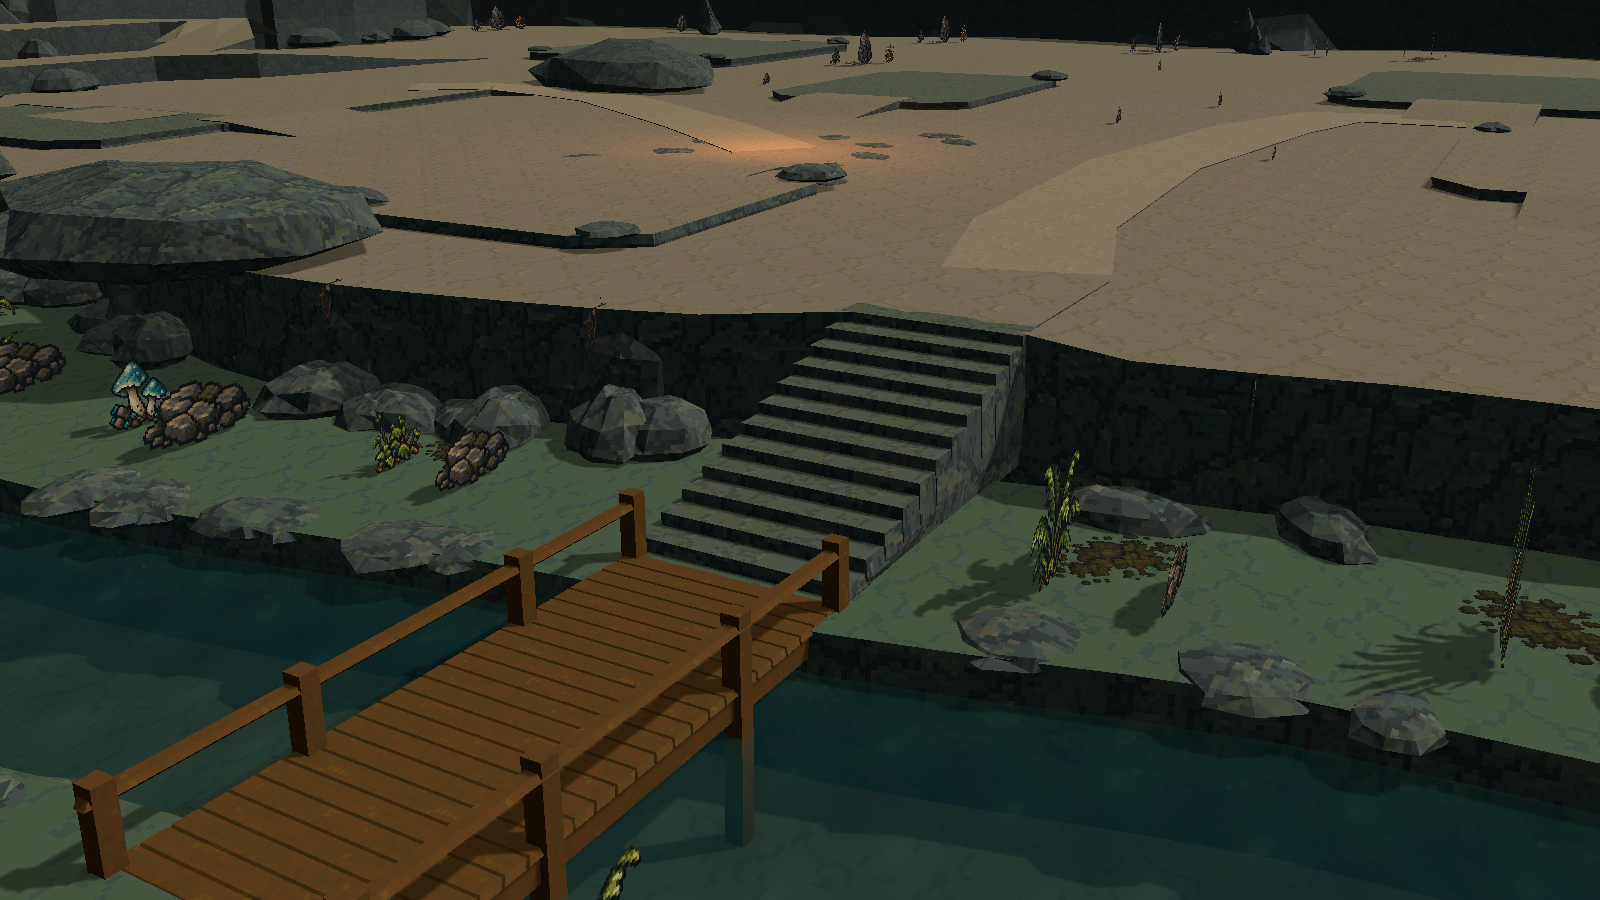
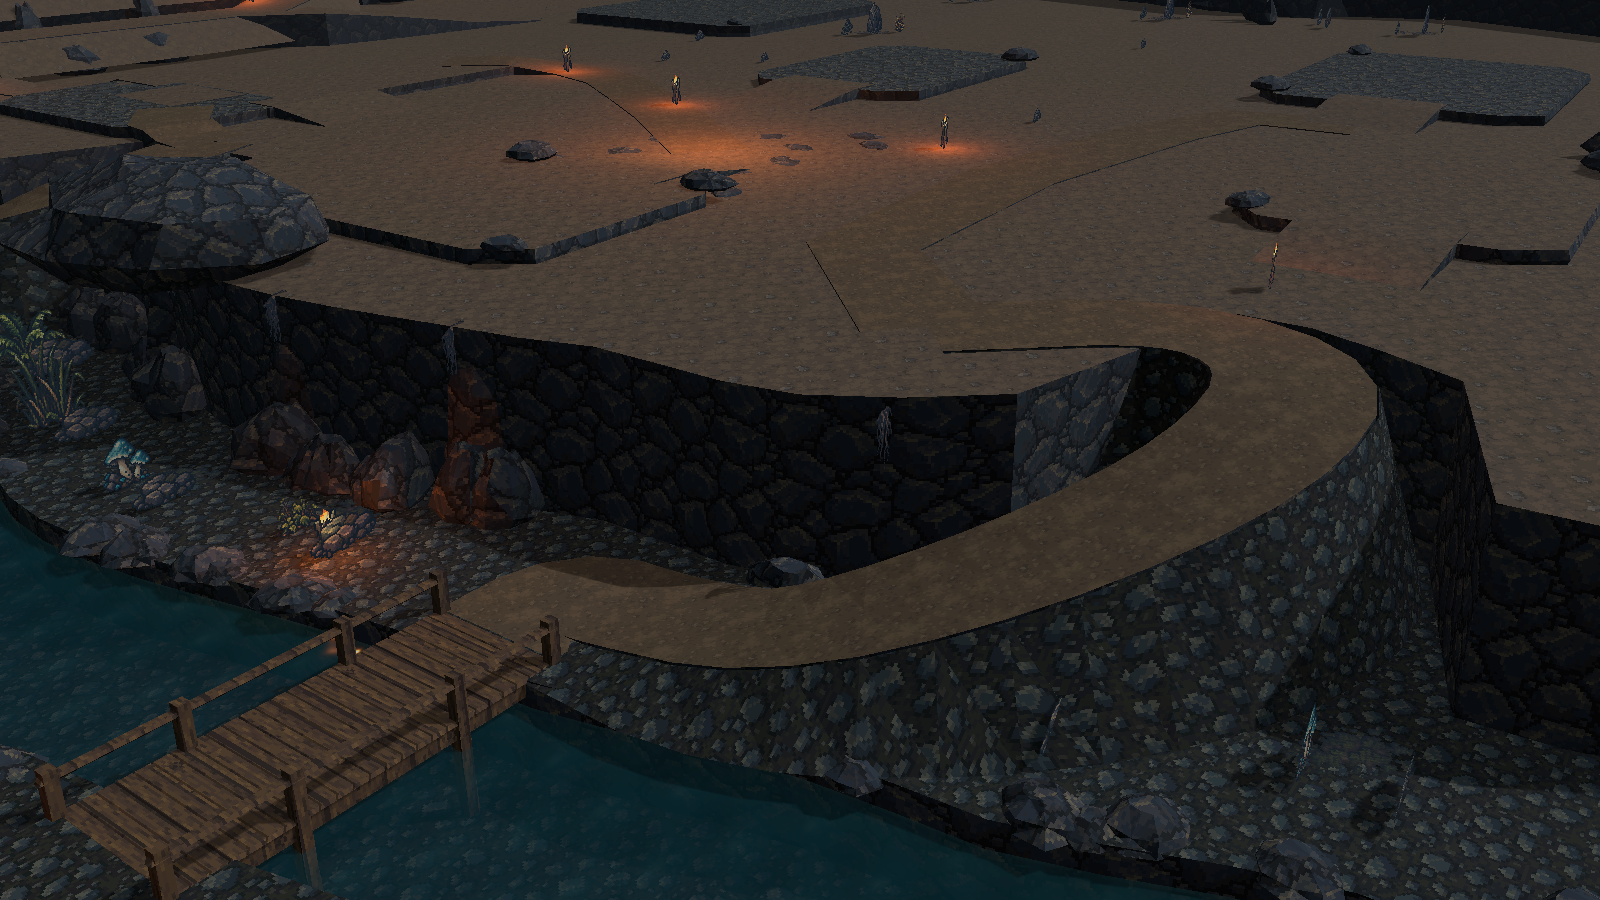
docs(cave): document terrain standards and playable camera previews

diff --git a/docs/cave-terraced-v2.md b/docs/cave-terraced-v2.md
@@ -7,15 +7,23 @@
 - XZ 平面长宽均为前一版两倍，面积约四倍；角色尺寸、速度与高差保持独立。
 - 主河道宽 7.02 m，支流末段宽 4.68 m；南侧分流更明显，保留中间河洲与沿岸碎石、菌类和植被。
 - 低岸 Y=-2.4，水面 Y=-3.05，水下河床 Y=-4.75；水面低于岸边 0.65 m。
-- 生活区主层 Y=0，北侧依次经过 +1.2、+2.4 的中间台地，到达 +4.8 的大厅高台；曲折缓坡有独立侧坡和碎岩过渡。
+- 生活区主层 Y=+2.4，比河岸高 4.8 m；北侧依次经过 +4.2、+6.0 的中间台地，到达 +9.6 的大厅高台。生活区到大厅再升高 7.2 m。
 - 中央、西侧供应与东侧外围路线均能上山；食堂东侧新增 `FeastToHearthGardenWalk`，向南弯至公共火塘。
-- 两座木桥使用独立木板、横梁、栏杆和木桩。木桩向下越过水面并插入河床；桥头石阶仍连接低岸和主层。
+- 两座木桥使用独立木板、横梁、栏杆和木桩。木桩向下越过水面并插入河床；桥头以沿岸转弯的连续缓坡连接主层，坡脚铺碎石，替换原来集中抬升的直石阶。供应桥上坡接入仓库南侧。
 
 ## 材质与水
 
-地面复用 `cave_floor_brown_tileset.png` 原生瓦片中不透明的内部区域；岩石复用已有岩面贴图，但由 V2 专用 shader 统一到每米 12 个采样块和有限色阶。地形的像素尺度不随 Mesh 缩放变细，远处降低细纹对比以减少噪点。菌类、草丛、根须和矿石沿用 CaveDetails 素材。
+土壤、路径、碎石岸、苔土、岩壁、铺石和木桥全部使用项目已有的实际 64×64 贴图。使用 Point 采样、每 4 m 重复一张完整贴图，即 16 px/m；去除旧图集裁片和酒馆木纹混用。V2 专用 shader 以世界坐标投射，让地面、岩壁与缩放岩石保持一致的像素密度。菌类、草丛、根须和矿石沿用 CaveDetails 素材。水继续使用连续流动的专用 shader。
 
 水面依据 [HD-2D 场景经验第 8 节](hd2d-scene-development.md#8-水面经验让水有自己的表面行为)：连续世界坐标波纹、动态法线、高光、真实深度参与的透明混合，以及三处一次性实时 Reflection Probe。岸线有克制的浅色涟漪，可透见河床与木桩。未实现屏幕折射或实时平面倒影；Reflection Probe 只在进入运行时捕获环境。
+
+## HD-2D 画面与玩家镜头
+
+冷蓝环境光负责河谷和岩壁，暖色火光强调生活区与上山方向。入口、桥头和台地边缘放置已有像素火盆，独立保存在 `Wayfinding | warm pixel braziers`，装饰碰撞关闭。土壤和步道降低纹理对比，角色周围保留明晰轮廓。
+
+玩家跟随镜头使用 30° 俯角、-8° 偏航、20 m 距离、38° FOV，并向前预留 2 m 视野。近处保持清晰，24–48 m 的远处使用轻微 Gaussian 景深；ACES、少量 Bloom 和暗角统一明暗。参数由 Editor 的 `PlayPitch` / `PlayYaw` / `PlayDistance` 与 `PlayFocusOffset` 同时配置真实跟随相机和玩家视角预览相机，避免只调观察相机。
+
+全景审阅图临时关闭近距离景深，导出后恢复；运行时使用保存的画面配置。`cave_player.png` 为 Unity 按玩家镜头参数渲染的预览，不代表手动 Play Mode 试玩录像。
 
 ## 建筑用地
 
@@ -23,27 +31,29 @@
 
 | 编号 | 用地 | X / Z | Y | 规划宽 × 深 |
 | --- | --- | --- | --- | --- |
-| 01 | 撤离集合 | 0 / -60 | 0 | 17.6 × 8 |
-| 02 | 入口前厅 | 0 / -45.2 | 0 | 16.8 × 12 |
-| 03 | 军营训练 | 38.4 / 21.6 | 0.45 | 17.6 × 15.2 |
-| 04 | 住宿休息 | 11.8 / -31 | 0.3 | 15.2 × 10.4 |
-| 05 | 厨房备料 | 35.4 / -25.2 | 0.3 | 16.8 × 12.8 |
-| 06 | 酒馆 | -8 / -6.6 | 0.3 | 11.2 × 10 |
-| 07 | 赌场 | 23.6 / -1.4 | 0.3 | 14.4 × 10 |
-| 08 | 食堂 / 聚餐区 | 4.6 / 20.8 | 0.3 | 18 × 12.4 |
-| 09 | 祭祀大厅 | -3 / 57 | 4.8 | 28.8 × 12.8 |
-| 10 | 长老住处 | 36.6 / 54.4 | 4.8 | 14.4 × 12 |
+| 01 | 撤离集合 | 0 / -60 | 2.4 | 17.6 × 8 |
+| 02 | 入口前厅 | 0 / -45.2 | 2.4 | 16.8 × 12 |
+| 03 | 军营训练 | 38.4 / 21.6 | 3.075 | 17.6 × 15.2 |
+| 04 | 住宿休息 | 11.8 / -31 | 2.85 | 15.2 × 10.4 |
+| 05 | 厨房备料 | 35.4 / -25.2 | 2.85 | 16.8 × 12.8 |
+| 06 | 酒馆 | -8 / -6.6 | 2.85 | 11.2 × 10 |
+| 07 | 赌场 | 23.6 / -1.4 | 2.85 | 14.4 × 10 |
+| 08 | 食堂 / 聚餐区 | 4.6 / 20.8 | 2.85 | 18 × 12.4 |
+| 09 | 祭祀大厅 | -3 / 57 | 9.6 | 28.8 × 12.8 |
+| 10 | 长老住处 | 36.6 / 54.4 | 9.6 | 14.4 × 12 |
 | 11 | 种植区 | -48 / 15.6 | -2.4 | 13.2 × 16 |
-| 12 | 仓库 | -5.4 / 20.8 | 0.3 | 8.4 × 12.8 |
-| 13 | 卸货庭院 | 38.4 / -45.2 | 0 | 17.6 × 12 |
-| 14 | 公共火塘 | 3 / -5.8 | 0 | 12 × 10 |
+| 12 | 仓库 | -5.4 / 20.8 | 2.85 | 8.4 × 12.8 |
+| 13 | 卸货庭院 | 38.4 / -45.2 | 2.4 | 17.6 × 12 |
+| 14 | 公共火塘 | 3 / -5.8 | 2.4 | 12 × 10 |
 | 15 | 河岸工坊 | -48 / -20 | -2.4 | 14 × 14 |
 
 ## 编辑与验证
 
 Blender 源文件：`tools/art/cave_terraced_terrain_v2.blend`；明确重建入口为 `tools/build_cave_terrain_v2.py` 和 Unity `Untitled/Cave/Reimport Combined Terrain V2`。重建会替换派生地形、细节与锚点，因此手工编辑场景后不要随意重建；进入 Play Mode 不会自动重建。
 
-本次已通过 Unity 编译、材质检查、15 个区域与 379 个路面采样高度检查；场景 CharacterController 已在三条上山路线、食堂步道、两座桥和两组桥头石阶上完成双向行走检查。角色 Step Offset 为 0.28 m，匹配 0.2 m 石阶。
+导入时检查 15 个区域与路线采样点的实际 Collider 高度、材质 Shader 和表面贴图尺寸。CharacterController 的双向路线检查覆盖上山路线、食堂步道、木桥与桥头缓坡；美术观感仍需在玩家镜头下试玩确认。
+
+本轮已通过 Unity 编译与 Shader 检查、720 个路面高度采样，以及 10 段关键路线的 CharacterController 双向移动检查。玩家镜头与全景已由 Unity 渲染导出；当前交互窗口无法自动切入 Play Mode，实际输入、跟随镜头移动与视觉观感留待人工试玩。
 
 试玩建议：从南入口向西过木桥看河谷；经食堂旁弯路到火塘；再走北侧折返坡道到祭祀大厅。
 
@@ -55,9 +65,19 @@ Blender 源文件：`tools/art/cave_terraced_terrain_v2.blend`；明确重建入
 - 河岸主层崖面增加竖向岩层与垂根，桥头可以看清低岸、石阶和生活区之间的层次。
 - Scene 保存两台关闭状态的 `Concept A Camera` / `Concept B Camera`，用于入口与桥头构图审阅。玩家跟随相机继续负责试玩。
 
-此轮仍为地形与空间调整，15 处建筑用地保持原尺寸与位置；概念图中的帐篷、厨房、祭坛建筑尚未摆放。
+此轮仍为地形与空间调整，15 处建筑用地保持原尺寸与 XZ 位置；概念图中的帐篷、厨房、祭坛建筑尚未摆放。
 
-本轮通过 Unity 编译、404 个路面高度采样，以及包含新步道在内的 9 段路线 CharacterController 双向行走检查。
+## 制作尺度与交付约定
+
+- XZ 为水平面，Y 为标高；Scene 根节点保持单位缩放，坐标与 15 处建筑用地由布局 JSON 统一导出。
+- 木桥及桥头缓坡净宽约 3.7 m，曲线入口保留平缓过渡，避免栏杆、岩块和植物挤占通行带。
+- 桥头以连续坡面连接 4.8 m 高差；大厅通过两个中间台地分段上升。既有建筑预留区随所在台地抬高。
+- 地表材质统一为 64×64 / Point / 16 px/m；地形、建筑预留区、路线、装饰、灯光与观察镜头分组保存，可在 Editor 中编辑。
+- Blender 脚本中的 `MAIN_ELEVATION` / `HALL_ELEVATION` 为本轮标高配置；修改后明确重建并检查通行，运行时不生成地形。
+
+以下为当前版本的 Unity 实际预览。
+
+![玩家镜头预览](images/cave_player.png)
 
 ![桥头与生活区高差](images/cave_concept_bridge.png)
 
